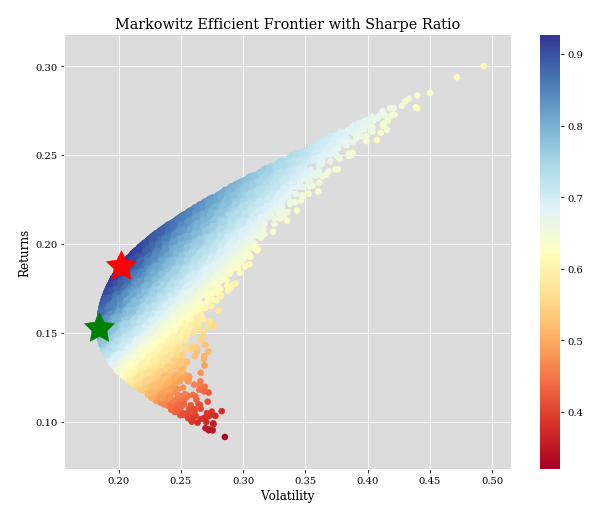
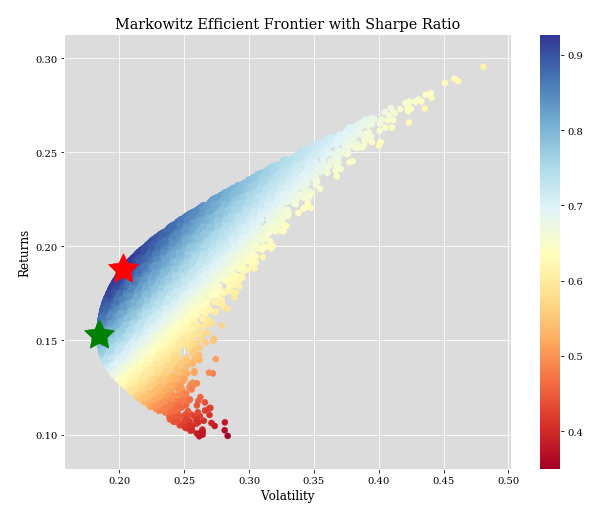
update correct results

diff --git a/CAPM_AAPL_INTL_MSFT_TSLA_SP500.py b/CAPM_AAPL_INTL_MSFT_TSLA_SP500.py
@@ -144,7 +144,7 @@ for i in range(number_of_portfolios):
         results[x+3, i]  = weights[x]
     
 # results_df
-results_df = pd.DataFrame(results.T,columns=['return','stdev','sharpe',tickers[0],tickers[1],tickers[2],tickers[3]])
+results_df = pd.DataFrame(results.T,columns=['returns','stdev','sharpe',tickers[0],tickers[1],tickers[2],tickers[3]])
  
 # locate position of portfolio with highest Sharpe Ratio
 max_sharpe_portfolio = results_df.iloc[results_df['sharpe'].idxmax()]
@@ -153,7 +153,7 @@ max_sharpe_portfolio = results_df.iloc[results_df['sharpe'].idxmax()]
 min_volatility_portfolio = results_df.iloc[results_df['stdev'].idxmin()]
  
 #create scatter plot coloured by Sharpe Ratio
-plt.scatter(results_df.stdev,results_df.ret,c=results_df.sharpe,cmap='RdYlBu')
+plt.scatter(results_df.stdev,results_df.returns,c=results_df.sharpe,cmap='RdYlBu')
 plt.xlabel('Volatility')
 plt.ylabel('Returns')
 plt.title('Markowitz Efficient Frontier with Sharpe Ratio')
